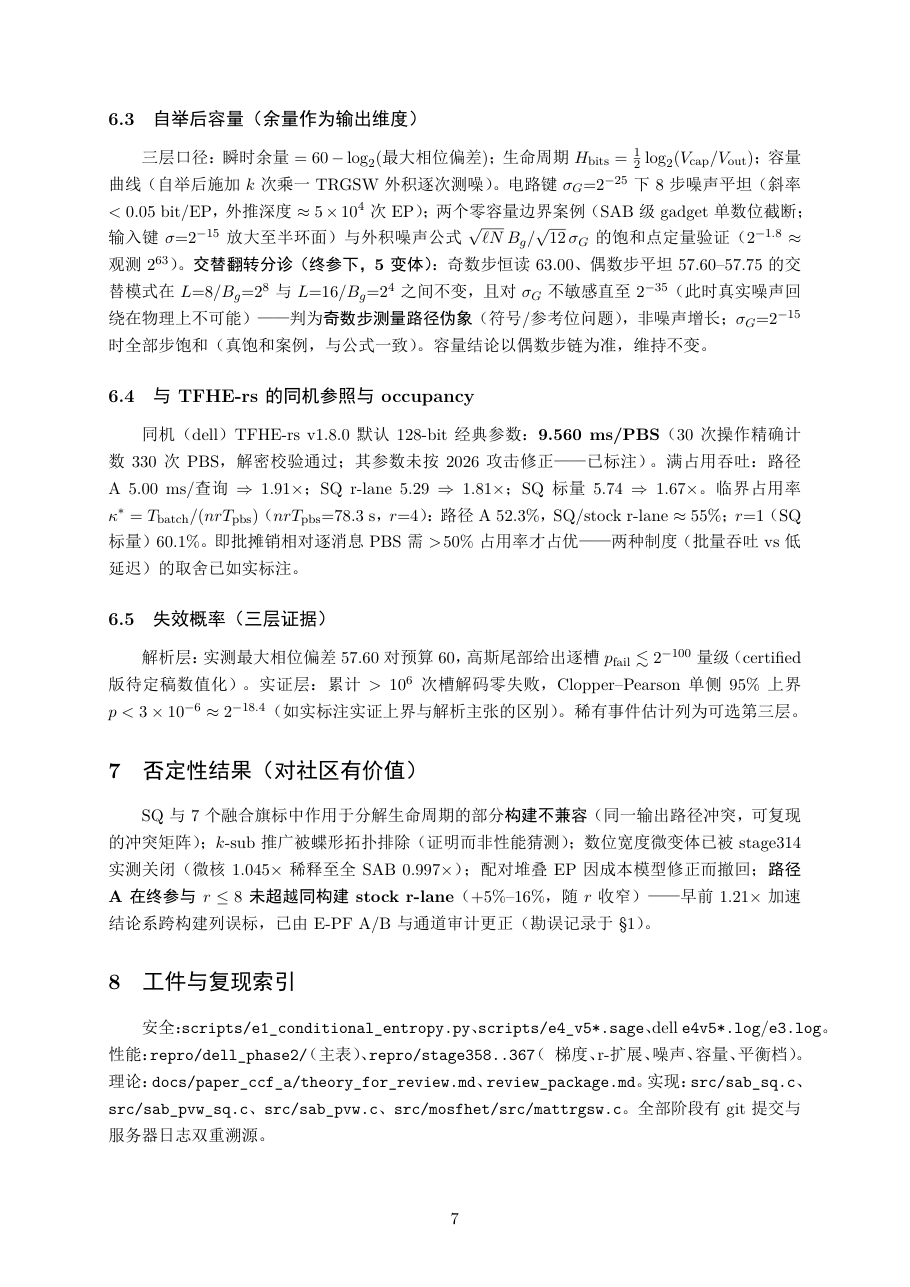
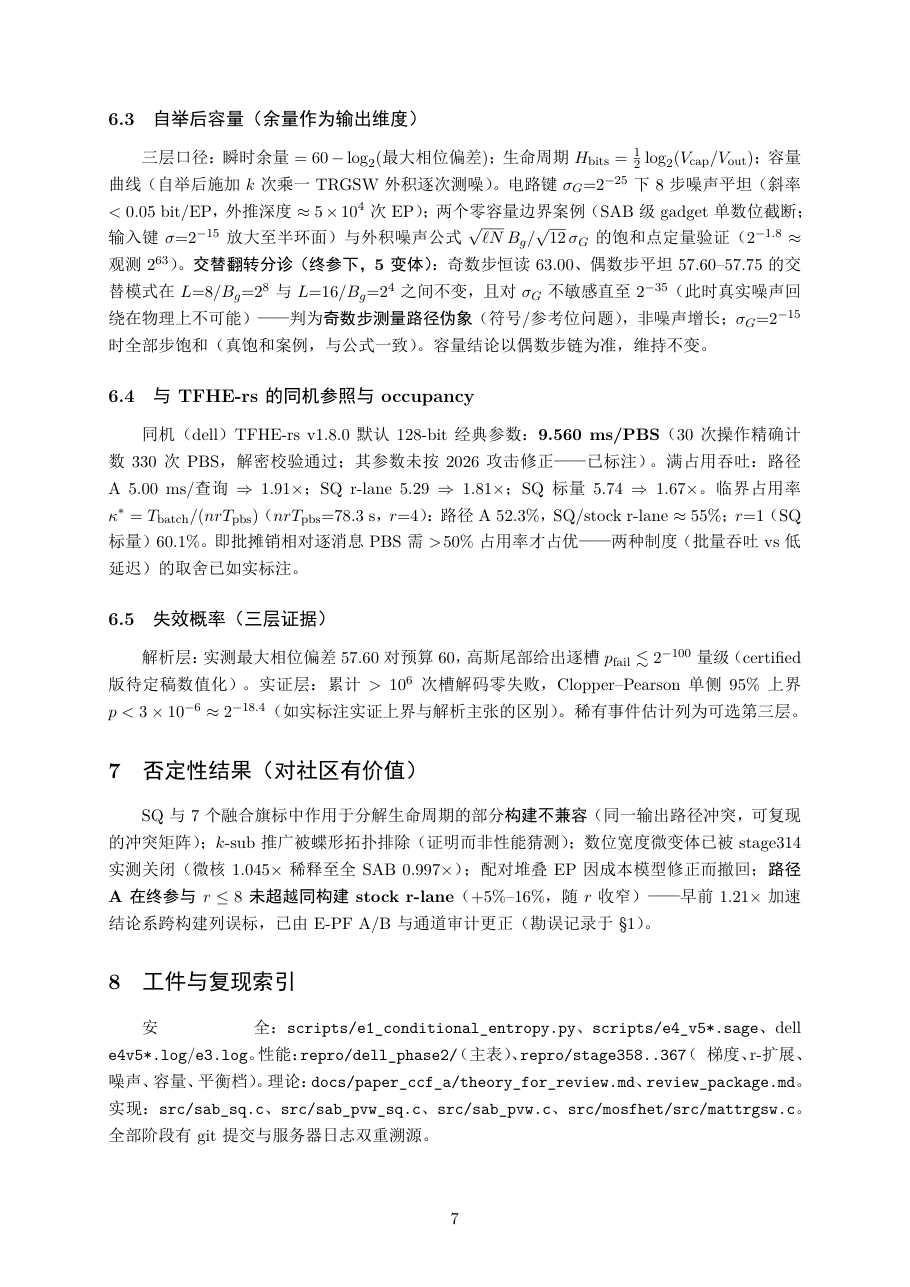
dossier v3 final: fix overfull in artifact index (sloppy), re-merge + refresh page PNGs

Changed region(s): [[0.1231, 0.777, 0.8923, 0.9013]]

diff --git a/docs/paper_ccf_a/review_pdf/expert_review.tex b/docs/paper_ccf_a/review_pdf/expert_review.tex
@@ -275,6 +275,6 @@ SQ 与 7 个融合旗标中作用于分解生命周期的部分\textbf{构建不
 
 \section{工件与复现索引}
 
-安全：\texttt{scripts/e1\_conditional\_entropy.py}、\texttt{scripts/e4\_v5*.sage}、dell \texttt{e4v5*.log}/\texttt{e3.log}。性能：\texttt{repro/dell\_phase2/}（主表）、\texttt{repro/stage358..367}（σ 梯度、r-扩展、噪声、容量、平衡档）。理论：\texttt{docs/paper\_ccf\_a/theory\_for\_review.md}、\texttt{review\_package.md}。实现：\texttt{src/sab\_sq.c}、\texttt{src/sab\_pvw\_sq.c}、\texttt{src/sab\_pvw.c}、\texttt{src/mosfhet/src/mattrgsw.c}。全部阶段有 git 提交与服务器日志双重溯源。
+{\sloppy 安全：\texttt{scripts/e1\_conditional\_entropy.py}、\texttt{scripts/e4\_v5*.sage}、dell \texttt{e4v5*.log}/\texttt{e3.log}。性能：\texttt{repro/dell\_phase2/}（主表）、\texttt{repro/stage358..367}（σ 梯度、r-扩展、噪声、容量、平衡档）。理论：\texttt{docs/paper\_ccf\_a/theory\_for\_review.md}、\texttt{review\_package.md}。实现：\texttt{src/sab\_sq.c}、\texttt{src/sab\_pvw\_sq.c}、\texttt{src/sab\_pvw.c}、\texttt{src/mosfhet/src/mattrgsw.c}。全部阶段有 git 提交与服务器日志双重溯源。\par}
 
 \end{document}
